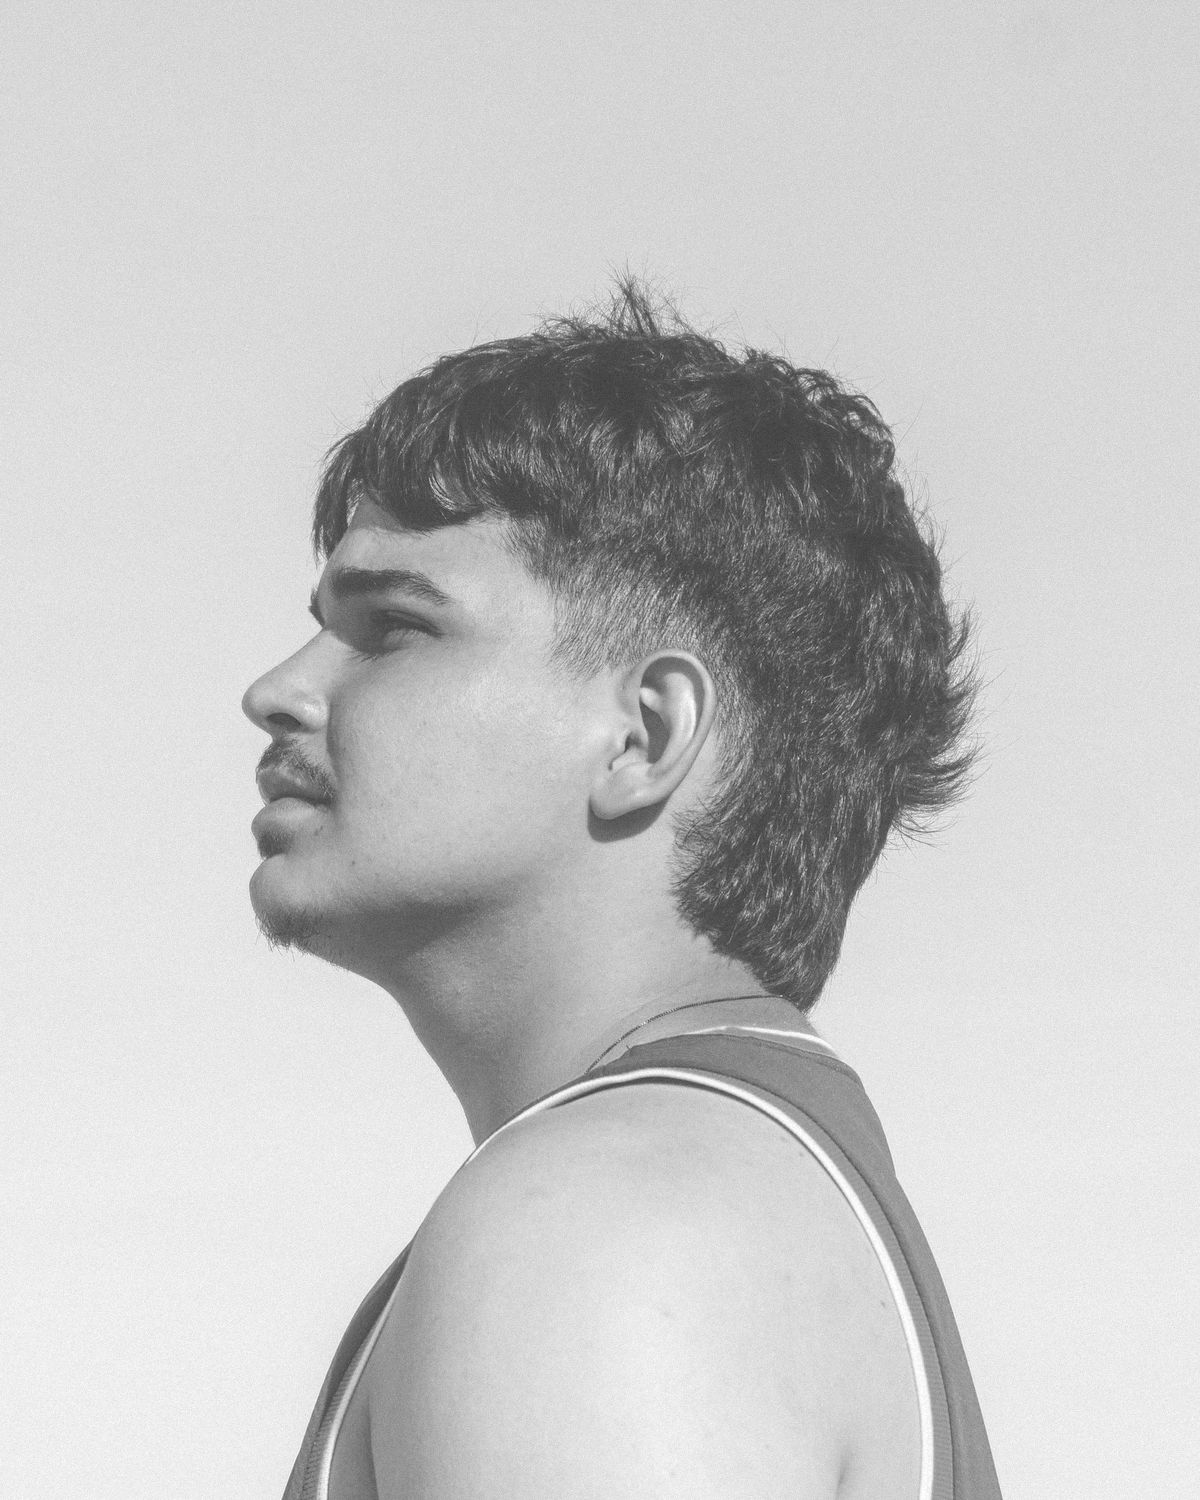
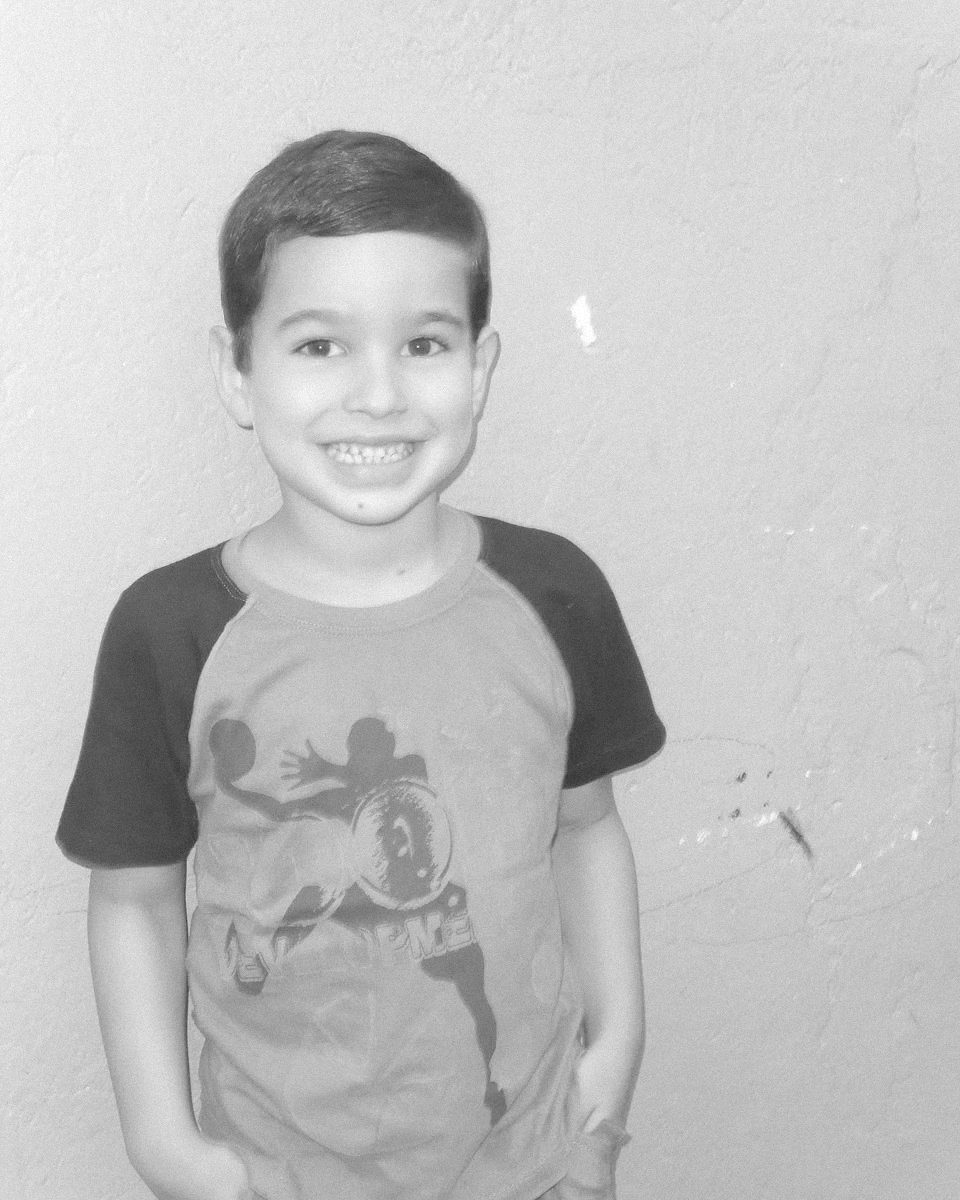
Troca a foto pela de criança, em preto e branco claro
Claude-Session: https://claude.ai/code/session_01VGGPW1NxEocy9SmnnQuu2m

diff --git a/index.html b/index.html
@@ -28,7 +28,7 @@
 
     <main class="palco">
         <figure class="quadro">
-            <img class="foto" src="assets/img/kaique.jpg" alt="Kaique Mota de perfil contra o céu, em preto e branco" width="1200" height="1500">
+            <img class="foto" src="assets/img/kaique.jpg" alt="Kaique Mota criança, sorrindo, em preto e branco" width="960" height="1200">
             <img class="assinatura" src="assets/img/assinatura.png" alt="Assinatura do Kaique Mota" width="1091" height="1162">
         </figure>
         <nav class="links" aria-label="Links">
